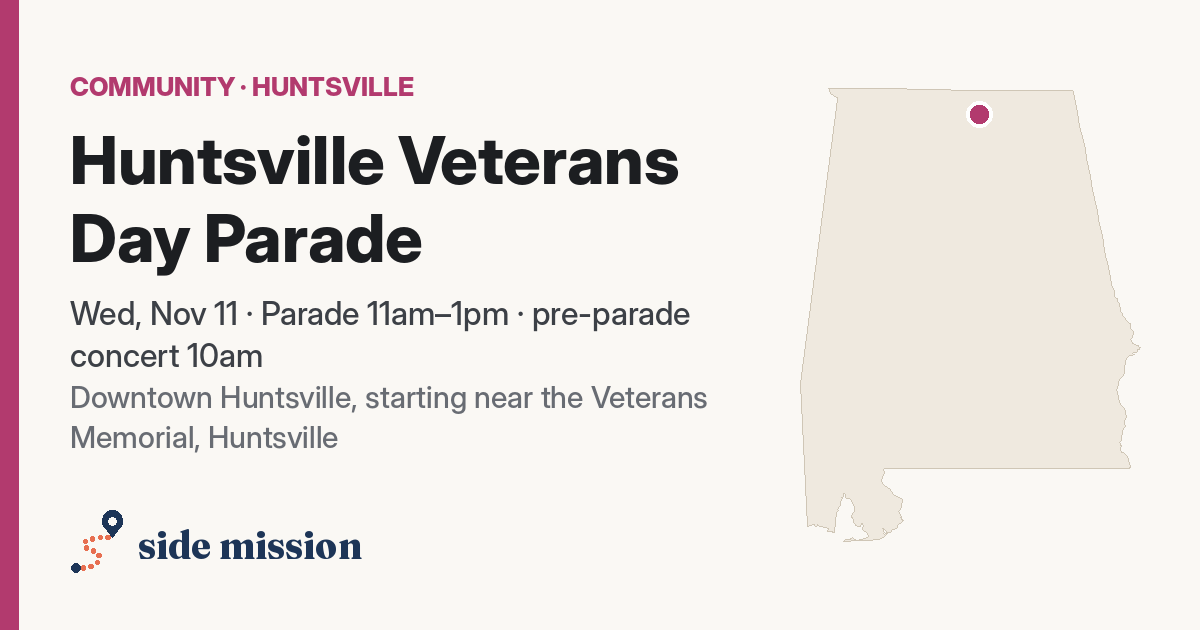
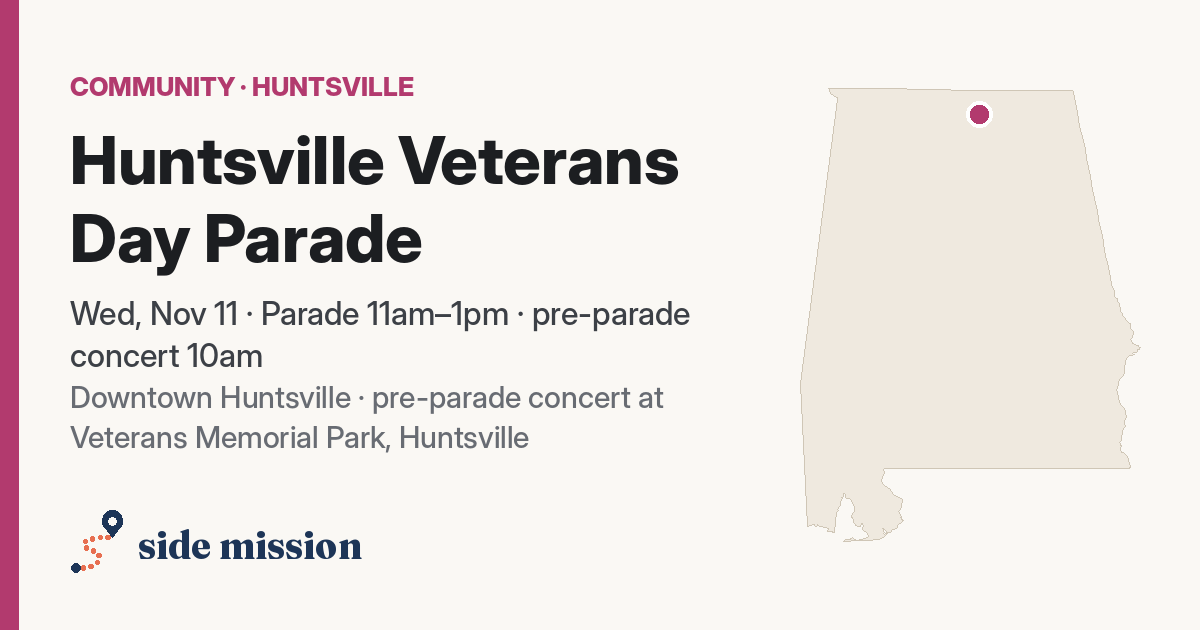
Huntsville parade: don't state a start point the organizer hasn't posted
Claude-Session: https://claude.ai/code/session_01A8J2mazxrtYJuNhMQKnHhT

Changed region(s): [[0.0617, 0.6032, 0.5858, 0.7238]]

diff --git a/site/e/huntsville-veterans-day-parade-11-11.html b/site/e/huntsville-veterans-day-parade-11-11.html
@@ -15,7 +15,7 @@
 <link rel="preconnect" href="https://fonts.googleapis.com"><link rel="preconnect" href="https://fonts.gstatic.com" crossorigin>
 <link rel="stylesheet" href="https://fonts.googleapis.com/css2?family=Bricolage+Grotesque:opsz,wght@12..96,400..800&family=Fraunces:opsz,wght@9..144,600..800&display=swap">
 <link rel="stylesheet" href="../assets/pages.css">
-<script type="application/ld+json">{"@context": "https://schema.org", "@type": "Event", "name": "Huntsville Veterans Day Parade", "description": "North Alabama's Veterans Day parade through downtown Huntsville, with a concert band performing at Veterans Memorial Park beforehand.", "startDate": "2026-11-11", "endDate": "2026-11-11", "eventStatus": "https://schema.org/EventScheduled", "eventAttendanceMode": "https://schema.org/OfflineEventAttendanceMode", "location": {"@type": "Place", "name": "Downtown Huntsville, starting near the Veterans Memorial", "address": {"@type": "PostalAddress", "addressRegion": "AL", "addressCountry": "US", "addressLocality": "Huntsville", "streetAddress": "200 Monroe St NW", "postalCode": "35801"}, "geo": {"@type": "GeoCoordinates", "latitude": 34.734938, "longitude": -86.588488}}, "image": ["https://sidemissionmap.com/e/huntsville-veterans-day-parade-11-11.png"], "url": "https://sidemissionmap.com/e/huntsville-veterans-day-parade-11-11"}</script>
+<script type="application/ld+json">{"@context": "https://schema.org", "@type": "Event", "name": "Huntsville Veterans Day Parade", "description": "North Alabama's Veterans Day parade through downtown Huntsville, with a concert band performing at Veterans Memorial Park beforehand.", "startDate": "2026-11-11", "endDate": "2026-11-11", "eventStatus": "https://schema.org/EventScheduled", "eventAttendanceMode": "https://schema.org/OfflineEventAttendanceMode", "location": {"@type": "Place", "name": "Downtown Huntsville · pre-parade concert at Veterans Memorial Park", "address": {"@type": "PostalAddress", "addressRegion": "AL", "addressCountry": "US", "addressLocality": "Huntsville", "streetAddress": "200 Monroe St NW", "postalCode": "35801"}, "geo": {"@type": "GeoCoordinates", "latitude": 34.734938, "longitude": -86.588488}}, "image": ["https://sidemissionmap.com/e/huntsville-veterans-day-parade-11-11.png"], "url": "https://sidemissionmap.com/e/huntsville-veterans-day-parade-11-11"}</script>
 </head>
 <body>
 <header class="top"><div class="wrap">
@@ -31,7 +31,7 @@
       <h1>Huntsville Veterans Day Parade</h1>
       <dl class="facts">
         <dt>When</dt><dd>Wed, Nov 11<small>Parade 11am–1pm · pre-parade concert 10am</small></dd>
-        <dt>Where</dt><dd>Downtown Huntsville, starting near the Veterans Memorial<small>200 Monroe St NW, Huntsville, AL 35801</small></dd>
+        <dt>Where</dt><dd>Downtown Huntsville · pre-parade concert at Veterans Memorial Park<small>200 Monroe St NW, Huntsville, AL 35801</small></dd>
         <dt>Cost</dt><dd>Not posted</dd>
       </dl>
       <p class="desc">North Alabama&#x27;s Veterans Day parade through downtown Huntsville, with a concert band performing at Veterans Memorial Park beforehand.</p>
